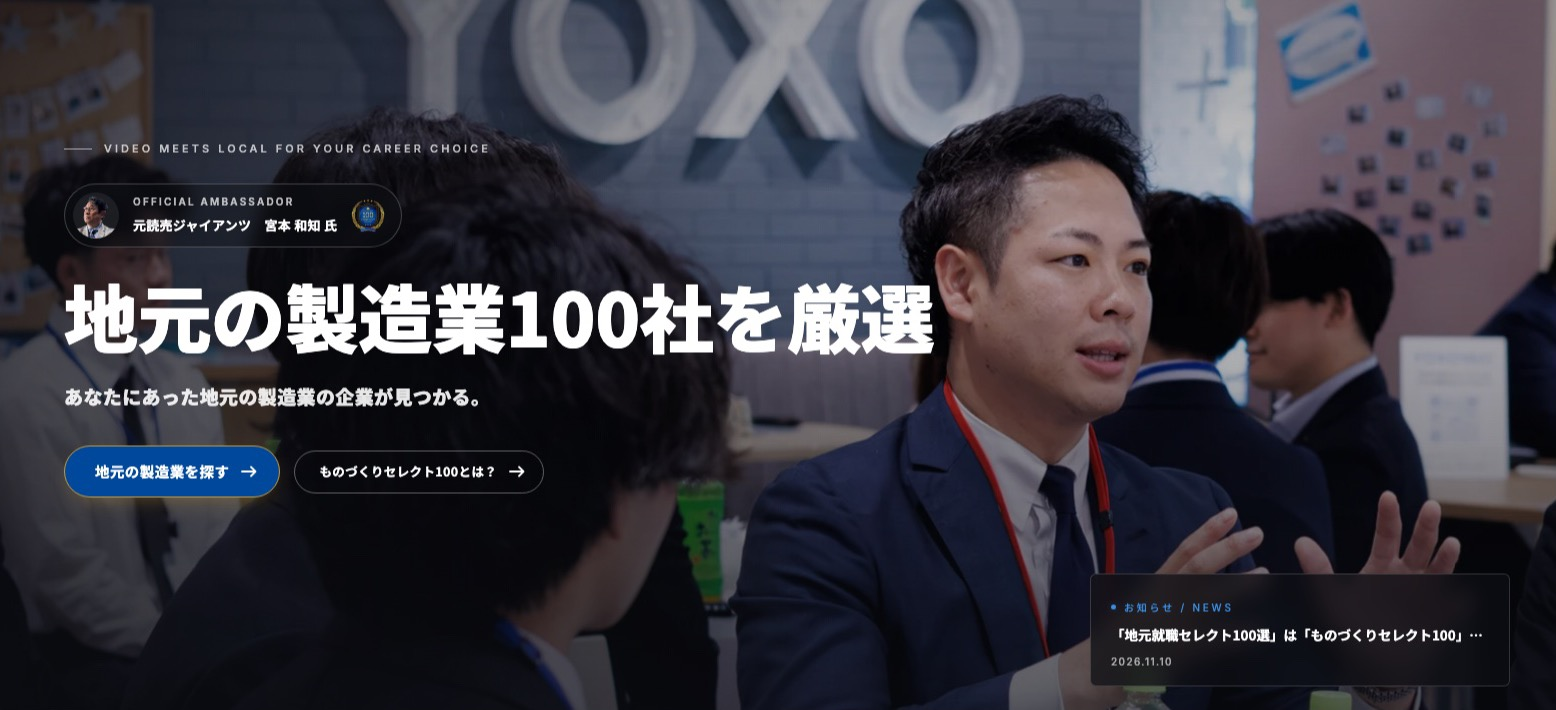
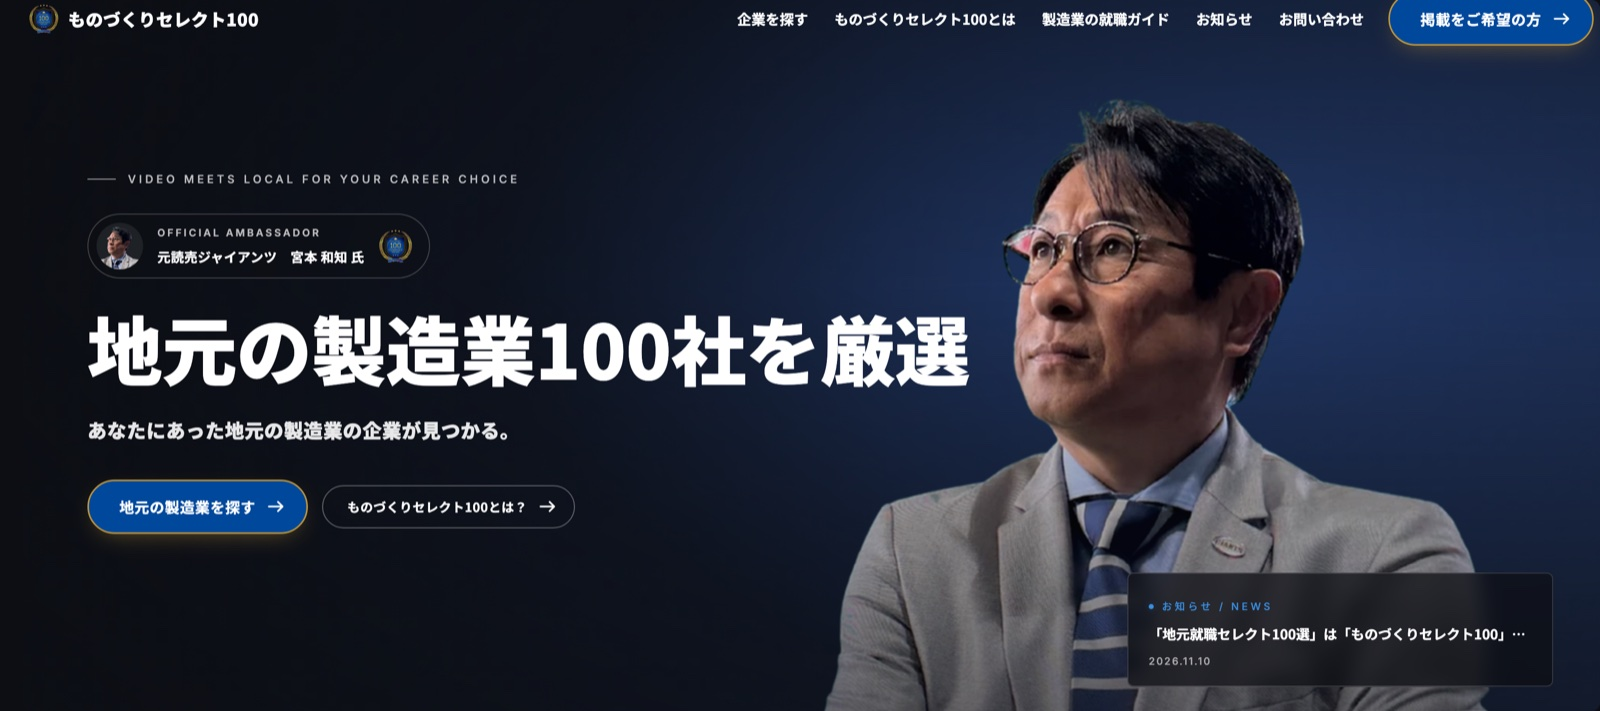
Apply feedback (11/17)

diff --git a/after/special.html b/after/special.html
@@ -115,6 +115,29 @@
     .m-give-tags strong { display: block; color: var(--navy); font-size: 16px; font-weight: 700; }
     .m-give-tags span { display: block; margin-top: 6px; color: var(--muted); font-size: 13px; line-height: 1.8; }
     @media (max-width: 720px) { .m-give { grid-template-columns: 1fr; } }
+    /* 11/17 最初の画面を宮本さん＋公式アンバサダーに */
+    .page-hero.page-hero--amb {
+      background:
+        linear-gradient(90deg, rgba(7,20,38,.97) 0%, rgba(7,20,38,.88) 36%, rgba(11,31,58,.35) 64%, rgba(11,31,58,0) 82%),
+        url("assets/ambassador-cutout.webp?v=20261117") right bottom / auto 100% no-repeat,
+        radial-gradient(120% 140% at 82% 30%, #1f3d6b 0%, #0b1f3a 55%, #071426 100%);
+    }
+    .amb-badge { display: inline-flex; align-items: center; gap: 12px; justify-self: start; padding: 8px 18px 8px 8px; border: 1px solid rgba(255,255,255,.22); border-radius: 999px; background: rgba(7,20,38,.45); }
+    .amb-badge img { width: 40px; height: 40px; border-radius: 50%; object-fit: cover; display: block; }
+    .amb-badge span { display: grid; gap: 2px; line-height: 1.3; }
+    .amb-badge small { color: #e3c987; font-size: 10px; font-weight: 800; letter-spacing: .18em; }
+    .amb-badge b { color: #fff; font-size: 13px; font-weight: 700; }
+    @media (max-width: 860px) {
+      .page-hero.page-hero--amb {
+        background:
+          linear-gradient(0deg, rgba(7,20,38,.97) 0%, rgba(7,20,38,.9) 42%, rgba(11,31,58,.2) 78%),
+          url("assets/ambassador-cutout.webp?v=20261117") 72% top / auto 72% no-repeat,
+          radial-gradient(120% 140% at 70% 20%, #1f3d6b 0%, #0b1f3a 55%, #071426 100%);
+      }
+    }
+    /* 11/17 価値を2つに */
+    .m-pillars.m-pillars--2 { grid-template-columns: repeat(2, minmax(0, 1fr)); }
+    @media (max-width: 860px) { .m-pillars.m-pillars--2 { grid-template-columns: 1fr; } }
   </style>
   <script>document.documentElement.classList.add('js');</script>
 
@@ -168,12 +191,13 @@
   </header>
 
   <main>
-    <section class="page-hero" data-screen-label="メディアヒーロー">
+    <section class="page-hero page-hero--amb" data-screen-label="メディアヒーロー">
       <div class="container">
-        <nav class="breadcrumb" aria-label="パンくず"><a href="index.html">HOME</a> <span>/</span> <span>メディア事業</span></nav>
+        <nav class="breadcrumb" aria-label="パンくず"><a href="/">HOME</a> <span>/</span> <span>メディア事業</span></nav>
         <p class="eyebrow" style="color:#e3c987;">Media Business</p>
+        <div class="amb-badge"><img src="assets/ambassador-face.png?v=20261117" alt="" width="40" height="40"><span><small>OFFICIAL AMBASSADOR</small><b>元読売ジャイアンツ 宮本 和知 氏</b></span></div>
         <h1 style="font-size:clamp(34px,5.4vw,74px);"><span class="nw">ものづくりセレクト</span><wbr><span class="nw">100選</span></h1>
-        <p>地元の製造業の企業と地元で働きたい人の、一生に一度の出会いを作ります。</p>
+        <p>製造業に特化して、動画で働くリアルを知ってもらいながら採用応募につなげる、日本唯一のプラットフォームです。</p>
       </div>
     </section>
 
@@ -182,18 +206,12 @@
         <div class="media-feature reveal">
           <div class="media-feature-visual">
             <a href="https://jimoto-syuusyoku.com/" target="_blank" rel="noopener" aria-label="ものづくりセレクト100のサイトを開く" style="display:block;">
-              <img src="assets/jimoto-top3.jpg" alt="ものづくりセレクト100 サイト" style="width:100%;height:auto;aspect-ratio:auto;object-fit:contain;background:#fff;display:block;">
+              <img src="assets/jimoto-top3.jpg?v=20261117" alt="ものづくりセレクト100 サイト" style="width:100%;height:auto;aspect-ratio:auto;object-fit:contain;background:#fff;display:block;">
             </a>
           </div>
           <div class="media-feature-body">
             <p class="eyebrow">What is ものづくりセレクト100</p>
-            <h3 class="media-feature-title">取材・編集した魅力を、Webサイト・動画・イベントへ。</h3>
-            <p class="media-feature-lead">SNS運用の代行にとどまらず、Alpsは自社メディア「<span class="nw">ものづくり</span><wbr><span class="nw">セレクト100</span>」を運営しています。企業を第三者の視点で取材・編集し、Webサイト・SNS発信・動画・イベントへ展開。一過性で終わらせず、継続的に知ってもらう仕組みをつくります。</p>
-            <ul class="media-list">
-              <li><strong>第三者視点の編集</strong><span>自社発信では出せない客観性と信頼感。</span></li>
-              <li><strong>学生・求職者へのネットワーク</strong><span>届けたい層との接点をすでに持つ。</span></li>
-              <li><strong>認知から採用まで一気通貫</strong><span>掲載・SNS・動画・イベントを掛け合わせる。</span></li>
-            </ul>
+            <p class="media-feature-lead">SNS運用の代行にとどまらず、Alpsは自社メディア「<span class="nw">ものづくり</span><wbr><span class="nw">セレクト100</span>」を運営しています。</p>
             <a class="btn btn-primary" href="https://jimoto-syuusyoku.com/" target="_blank" rel="noopener">ものづくりセレクト100を見る <em aria-hidden="true">↗</em></a>
           </div>
         </div>
@@ -212,26 +230,20 @@
 
         <div class="m-lockup reveal">
           <span class="m-en">For Your Future</span>
-          <p class="m-jp"><span class="nw">ものづくり</span><wbr><span class="nw">セレクト100</span>が提供する、<wbr><span class="nw">3つの価値。</span></p>
+          <p class="m-jp"><span class="nw">ものづくり</span><wbr><span class="nw">セレクト100</span>が提供する、<wbr><span class="nw">2つの価値。</span></p>
         </div>
-        <div class="m-pillars reveal">
+        <div class="m-pillars m-pillars--2 reveal">
+          <div class="m-pillar">
+            <span class="m-en">Platform</span>
+            <div class="m-fig">日本唯一</div>
+            <h3>製造業×動画の採用プラットフォーム</h3>
+            <p>製造業に特化して、動画で働くリアルを知ってもらいながら、採用応募につなげます。</p>
+          </div>
           <div class="m-pillar">
             <span class="m-en">Branding</span>
-            <div class="m-fig"><span class="js-count">365</span><small>日</small></div>
-            <h3>認定企業としての社会的信頼</h3>
-            <p>「<span class="nw">ものづくり</span><wbr><span class="nw">セレクト100</span> 認定」で採用ブランドを確立。求職者・取引先・社員の誇りに直結します。</p>
-          </div>
-          <div class="m-pillar">
-            <span class="m-en">Recruiting</span>
-            <div class="m-fig"><span class="js-count">+300</span><small>%</small></div>
-            <h3>応募数と採用成果の最大化</h3>
-            <p>メディア掲載・動画・記事を通じて、価値観に共感する質の高い母集団を継続的に形成します。</p>
-          </div>
-          <div class="m-pillar">
-            <span class="m-en">Meeting</span>
             <div class="m-fig"><span class="js-count">100</span><small>社限定</small></div>
-            <h3>学生との出会いを生む</h3>
-            <p>就職意欲の高い学生が集まる、掲載企業限定のミートアップで効率的な接点を創出します。</p>
+            <h3>各都道府県100社限定のブランディング</h3>
+            <p>掲載できるのは、各都道府県100社まで。「選ばれた企業」として、求職者や取引先に伝わります。</p>
           </div>
         </div>
       </div>
@@ -268,23 +280,19 @@
       </div>
     </section>
 
-    <!-- ===== 6つのサポート ===== -->
-    <section class="section" data-kicker="SUPPORT" data-screen-label="6つのサポート">
+    <!-- ===== 2つのサポート ===== -->
+    <section class="section" data-kicker="SUPPORT" data-screen-label="2つのサポート">
       <div class="container">
         <div class="section-head reveal">
           <div>
             <p class="eyebrow">All-in-One Support</p>
-            <h2 class="section-title">ただの採用支援じゃない、6つのサポート。</h2>
+            <h2 class="section-title">ただの採用支援じゃない、2つのサポート。</h2>
           </div>
-          <p class="section-copy">掲載して終わりではありません。ブランディングから採用、学生との出会い、経営者ネットワークまで。御社の採用力を多面的に支えます。</p>
+          <p class="section-copy">掲載して終わりではありません。動画での発信から採用の設計まで、御社の採用を支えます。</p>
         </div>
-        <div class="grid grid-3 reveal">
-          <a class="card" href="https://jimoto-syuusyoku.com/" target="_blank" rel="noopener"><span class="card-number">CORE 01</span><h3>メディア掲載</h3><p>地元の製造業から100社限定の希少枠。「選ばれた企業」というポジションが、求職者の第一印象を変えます。掲載期間は1年間。</p><span class="site-btn"><svg viewBox="0 0 24 24" width="18" height="18" fill="none" stroke="currentColor" stroke-width="2" stroke-linecap="round" stroke-linejoin="round" aria-hidden="true"><path d="M18 13v6a2 2 0 0 1-2 2H5a2 2 0 0 1-2-2V8a2 2 0 0 1 2-2h6"/><polyline points="15 3 21 3 21 9"/><line x1="10" y1="14" x2="21" y2="3"/></svg>掲載サイトを見る <em aria-hidden="true">→</em></span></a>
-          <article class="card"><span class="card-number">SUPPORT 02</span><h3>採用コンサル</h3><p>専任担当が月1回のオンライン面談で伴走。応募データや選考フローを診断し、求人原稿・面接フローまで一緒に磨きます。</p></article>
-          <a class="card" href="https://youtube.com/channel/UCRNFqnMFHb-Qp9sa0mqdWAQ?si=ZmJdpICuqnjxCq0V" target="_blank" rel="noopener"><span class="card-number">CREATIVE 03</span><h3>YouTube対談・SNSでPR</h3><p>SNS運用のプロが企画から編集まで一貫対応。代表の熱量・人柄を引き出し、文字では伝わらない魅力を動画で可視化します。</p><span class="yt-btn"><svg viewBox="0 0 24 24" width="18" height="18" fill="currentColor" aria-hidden="true"><path d="M23.5 6.2a3 3 0 0 0-2.1-2.1C19.5 3.6 12 3.6 12 3.6s-7.5 0-9.4.5A3 3 0 0 0 .5 6.2C0 8.1 0 12 0 12s0 3.9.5 5.8a3 3 0 0 0 2.1 2.1c1.9.5 9.4.5 9.4.5s7.5 0 9.4-.5a3 3 0 0 0 2.1-2.1c.5-1.9.5-5.8.5-5.8s0-3.9-.5-5.8zM9.6 15.6V8.4l6.3 3.6-6.3 3.6z"/></svg>YouTubeを見る</span></a>
-          <article class="card"><span class="card-number">EVENT 04</span><h3>ミートアップ100選</h3><p>意欲の高い学生を厳選集客し、卓単位でじっくり対話できる掲載企業限定イベント。本当に合う学生に出会えます。</p></article>
-          <article class="card"><span class="card-number">NETWORK 05</span><h3>経営者交流会</h3><p>業界・地域を超えた選定企業の経営者ネットワーク。採用の成功事例の共有から、新たなBtoBの出会いまで広がります。</p></article>
-          <article class="card"><span class="card-number">BRAND 06</span><h3>認定エンブレムの贈呈</h3><p>第三者認証ブランドとして公式エンブレムを無償提供（PNG・JPG・SVG）。採用ページや名刺など、あらゆる接点で活用できます。</p></article>
+        <div class="grid grid-2 reveal">
+          <a class="card" href="https://youtube.com/channel/UCRNFqnMFHb-Qp9sa0mqdWAQ?si=ZmJdpICuqnjxCq0V" target="_blank" rel="noopener"><span class="card-number">CORE 01</span><h3>動画での採用活動</h3><p>YouTubeでの動画発信と、<span class="nw">ものづくり</span><wbr><span class="nw">セレクト100</span>への掲載を掛け合わせて、働くリアルを求職者に届けます。</p><span class="yt-btn"><svg viewBox="0 0 24 24" width="18" height="18" fill="currentColor" aria-hidden="true"><path d="M23.5 6.2a3 3 0 0 0-2.1-2.1C19.5 3.6 12 3.6 12 3.6s-7.5 0-9.4.5A3 3 0 0 0 .5 6.2C0 8.1 0 12 0 12s0 3.9.5 5.8a3 3 0 0 0 2.1 2.1c1.9.5 9.4.5 9.4.5s7.5 0 9.4-.5a3 3 0 0 0 2.1-2.1c.5-1.9.5-5.8.5-5.8s0-3.9-.5-5.8zM9.6 15.6V8.4l6.3 3.6-6.3 3.6z"/></svg>YouTubeを見る</span></a>
+          <article class="card"><span class="card-number">SUPPORT 02</span><h3>採用全体の設計の見直し</h3><p>貴社の採用担当として、求人原稿から選考・面接の流れまで、採用全体の設計を一緒に見直します。</p></article>
         </div>
       </div>
     </section>

diff --git a/after/index.html b/after/index.html
@@ -148,7 +148,7 @@
         <div class="media-feature reveal">
           <div class="media-feature-visual">
             <a href="https://jimoto-syuusyoku.com/" target="_blank" rel="noopener" aria-label="ものづくりセレクト100のサイトを開く" style="display:block;">
-              <img src="assets/jimoto-top3.jpg" alt="ものづくりセレクト100 サイト" style="width:100%;height:auto;aspect-ratio:auto;object-fit:contain;background:#fff;display:block;">
+              <img src="assets/jimoto-top3.jpg?v=20261117" alt="ものづくりセレクト100 サイト" style="width:100%;height:auto;aspect-ratio:auto;object-fit:contain;background:#fff;display:block;">
             </a>
           </div>
           <div class="media-feature-body">
